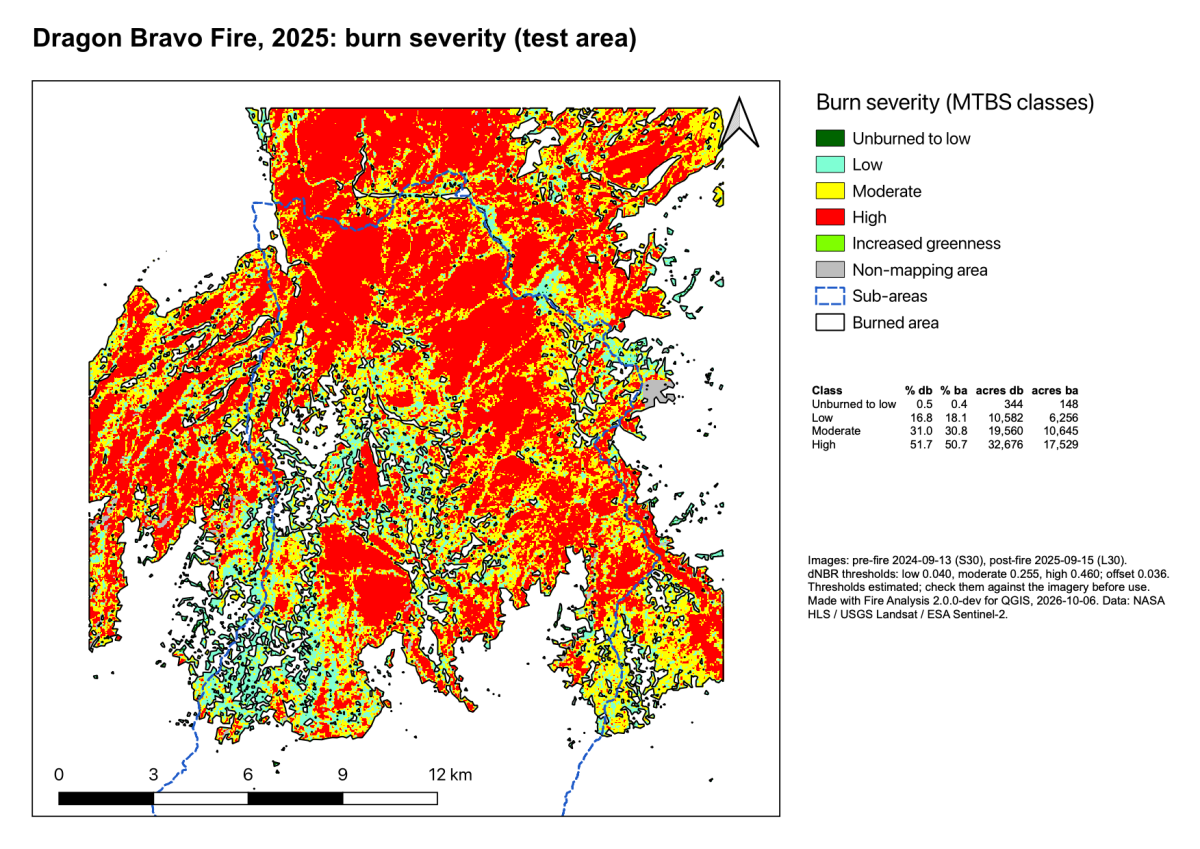
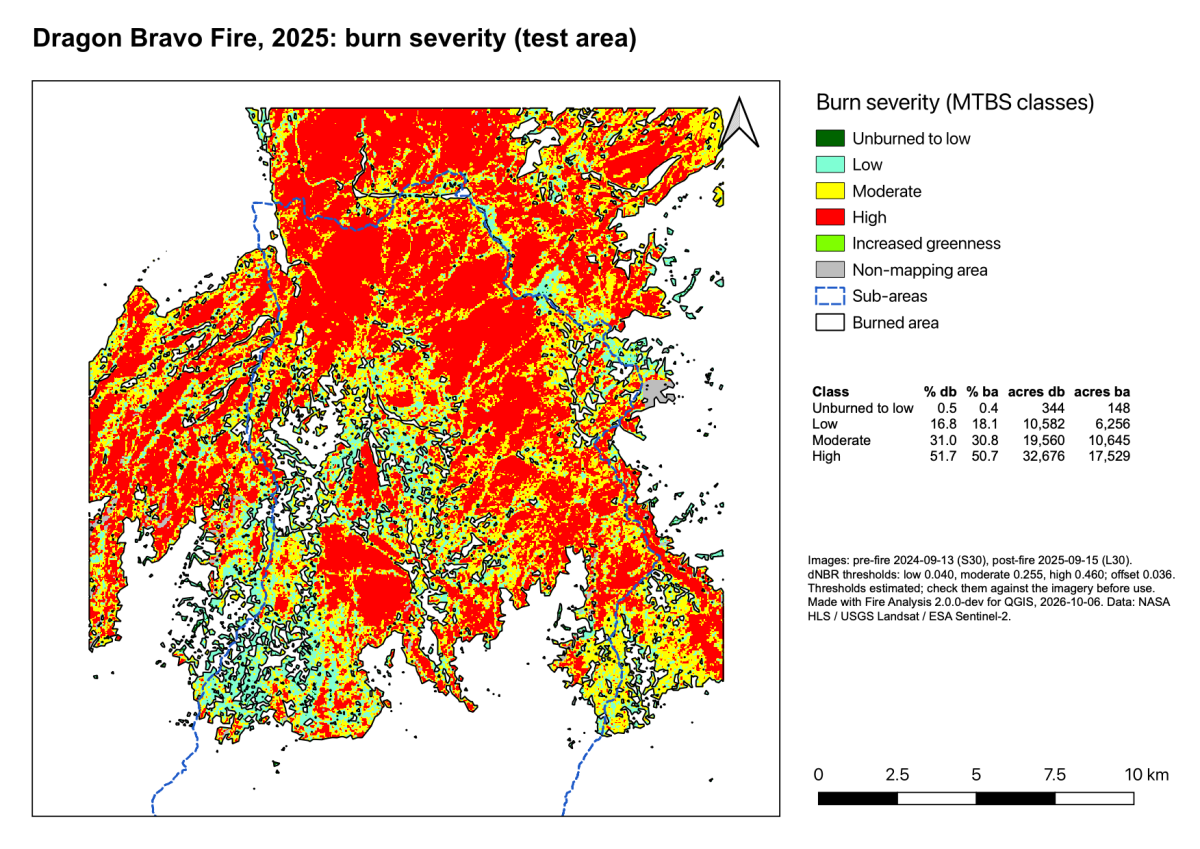
Severity map: scale bar in the side column, sized to fit; refresh the README map

diff --git a/fireanalysis/algorithms/severity_map.py b/fireanalysis/algorithms/severity_map.py
@@ -195,9 +195,14 @@ class SeverityMap(QgsProcessingAlgorithm):
         bar.setUnits(_try(lambda: Qgis.DistanceUnit.Kilometers, lambda: QgsUnitTypes.DistanceKilometers))
         bar.setUnitLabel('km')
         bar.setNumberOfSegments(4)
-        bar.setUnitsPerSegment(max(1, round(extent.width() / 1000 / 8)))
+        # Four segments of a round length that fit the 90 mm column (about 20 mm each)
+        km_per_mm = m.extent().width() / 1000.0 / 185.0
+        nice = [0.1, 0.2, 0.25, 0.5, 1, 2, 2.5, 5, 10, 20, 25, 50, 100]
+        bar.setUnitsPerSegment(max([n for n in nice if n <= 20 * km_per_mm] or [nice[0]]))
+        bar.setSegmentSizeMode(_try(lambda: Qgis.ScaleBarSegmentSizeMode.Fixed,
+                                    lambda: QgsLayoutItemScaleBar.SegmentSizeFixed))
         layout.addLayoutItem(bar)
-        bar.attemptMove(QgsLayoutPoint(12, 188, _mm()))
+        bar.attemptMove(QgsLayoutPoint(200, 188, _mm()))  # right column, clear of the map
         arrow = QgsLayoutItemPicture(layout)
         arrow.setPicturePath(':/images/north_arrows/layout_default_north_arrow.svg')
         layout.addLayoutItem(arrow)
